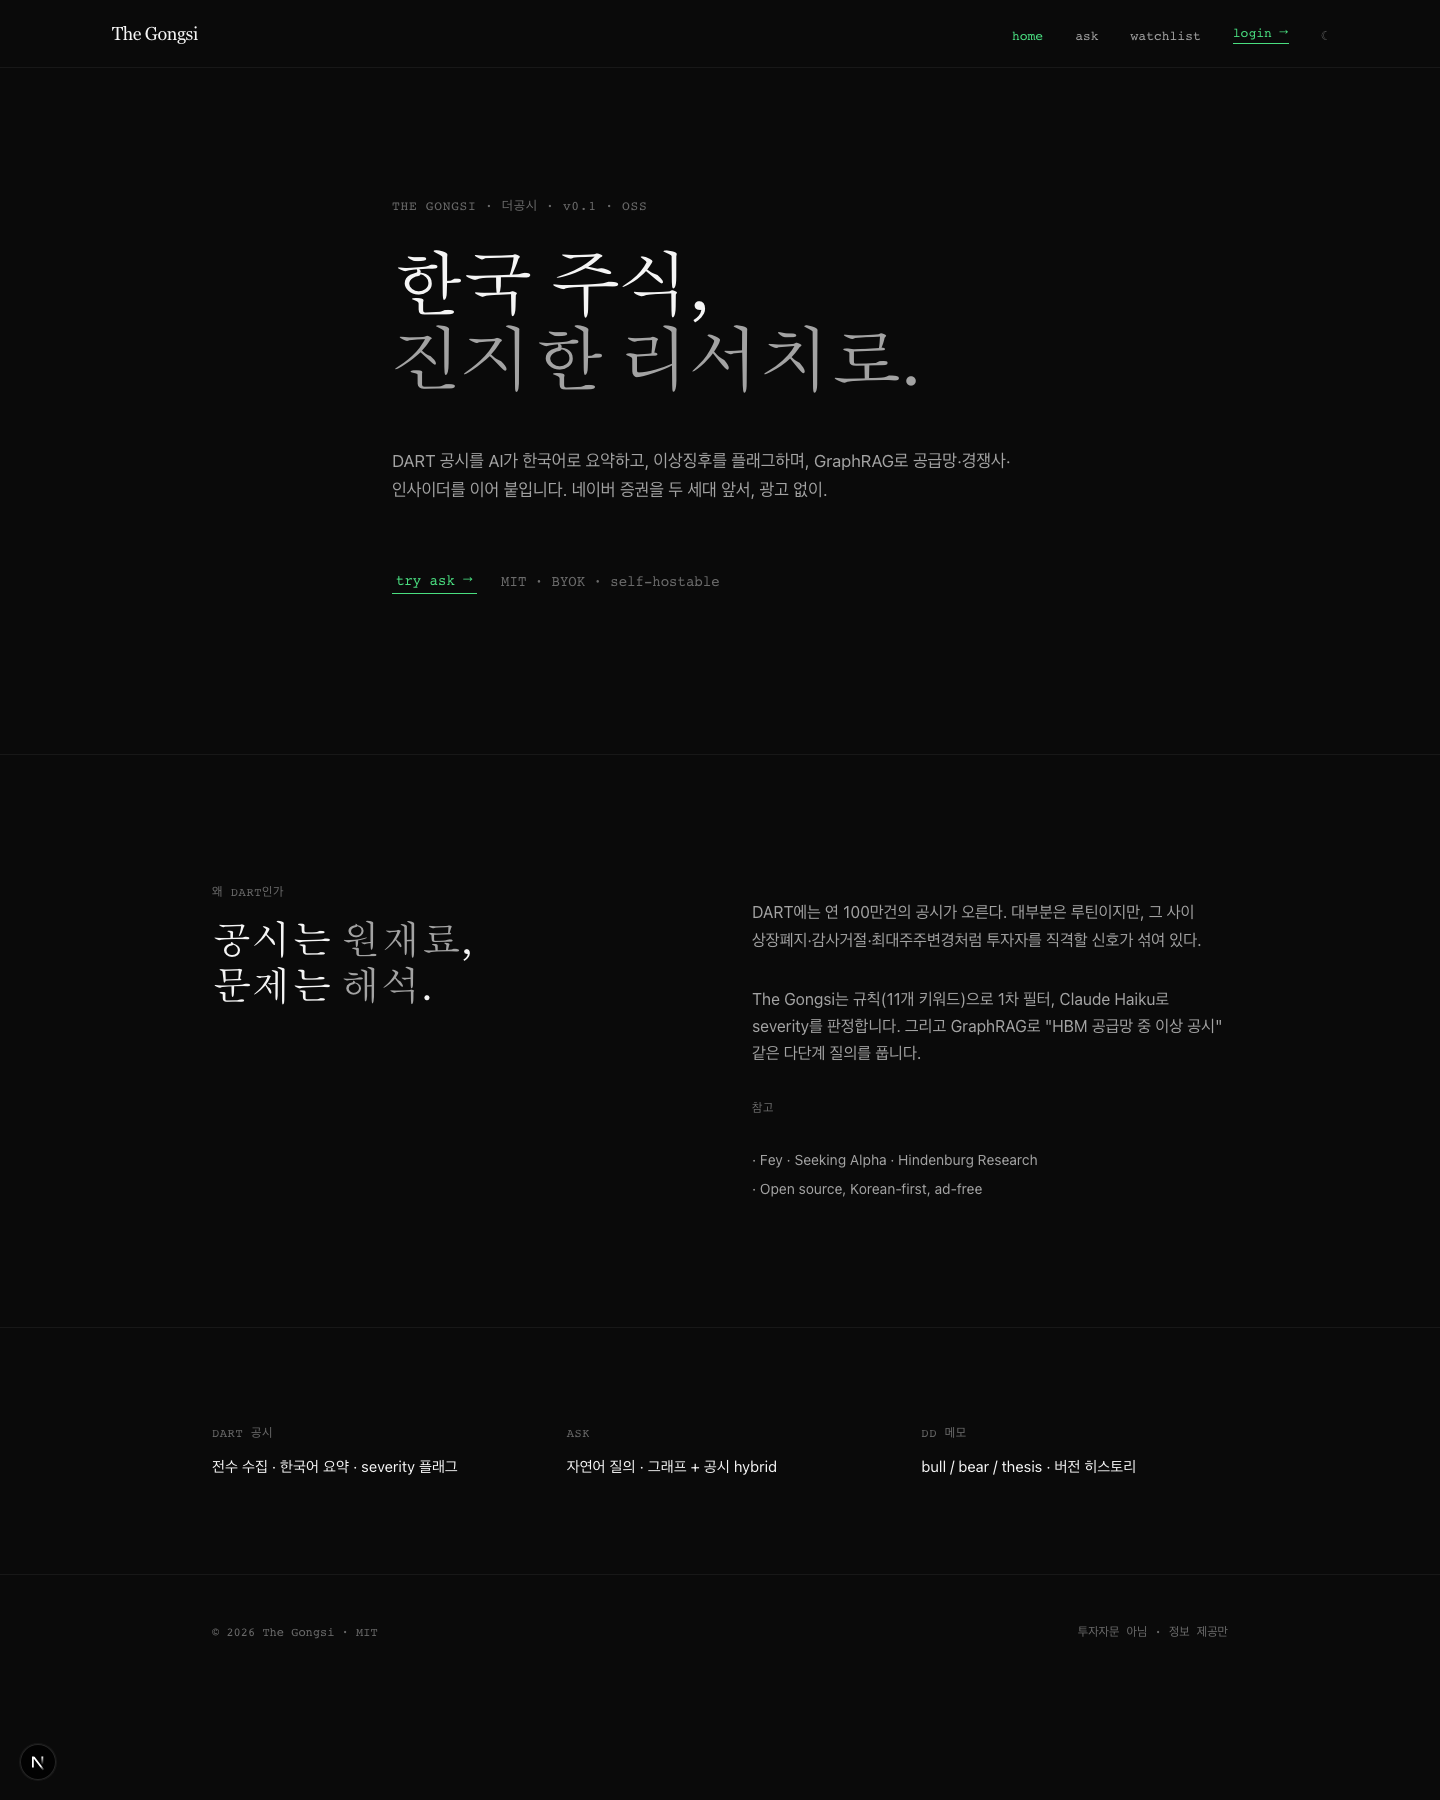
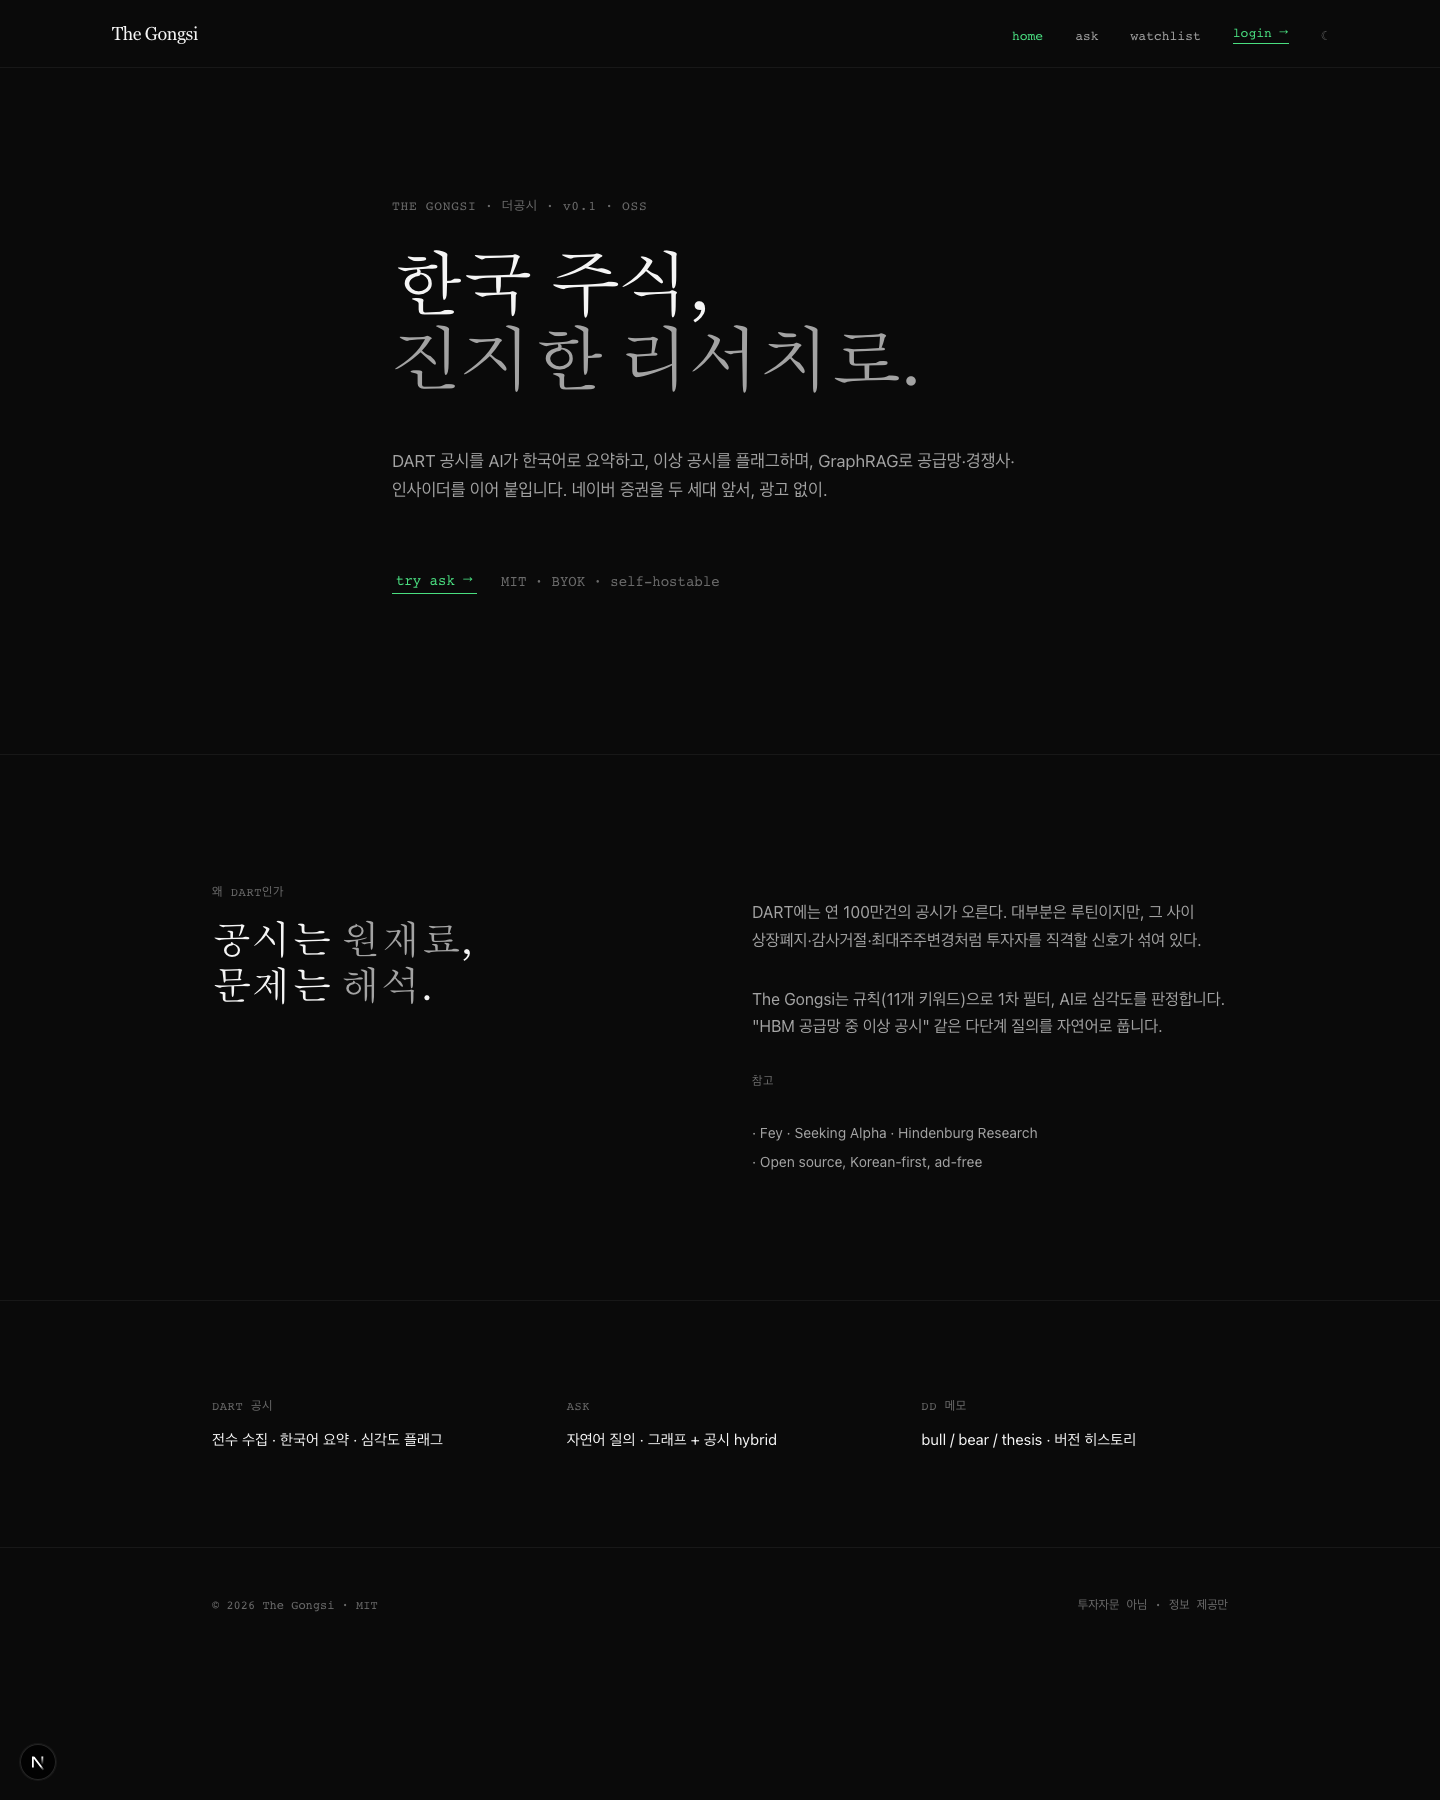
fix(i18n): terminology consistency sweep
수정된 불일치:
1. landing 'severity 플래그' + '이상징후' 혼재
   → '심각도 플래그' + '이상 공시' 통일 (ask placeholder와 맞춤)
2. landing 'Claude Haiku로 severity를 판정'
   → 'AI로 심각도를 판정' (모델명 세부는 불필요)
3. DisclosureList 필터 탭 영문 'all/high/med/low/uncertain'
   → '전체/고/중/저/불명' 한국어 (mono 스타일 유지)
   → title=영문값 hover 툴팁으로 유지
4. DisclosureList empty message '\'med\' 필터 해제'
   → '\'중\' 필터 해제' 한국어
5. NoMemoCard '메모가' → 'DD 메모가' (DDMemoCard 제목과 일치)

유지 (의도적):
- NavBar lowercase mono 영문 (home/ask/watchlist) — editorial 패턴
- BULL/BEAR/THESIS 3섹션 제목 영문 — 기술 용어 고정
- Page hero: 한국어 serif 제목 + mono 영문 카테고리 오버라인
- severity API 쿼리 파라미터 값 'high/med/low/uncertain' 영문 (기술 계층)

외부 노출 용어:
- watchlist (nav) / 관심 종목 (page title)
- ask (nav) / 자연어 질의 (page title)
- DD 메모 (일관)
- 심각도 (본문), 고/중/저/불명 (필터 라벨)
- 이상 공시 (placeholder + landing)
- 투자자문 아님 (푸터만, 본문 금지)

diff --git a/frontend/src/app/page.tsx b/frontend/src/app/page.tsx
@@ -11,7 +11,7 @@ export default function Home() {
         </h1>
 
         <p className="mt-12 text-[17px] leading-[1.7] text-fg-2">
-          DART 공시를 AI가 한국어로 요약하고, 이상징후를 플래그하며,
+          DART 공시를 AI가 한국어로 요약하고, 이상 공시를 플래그하며,
           GraphRAG로 공급망·경쟁사·인사이더를 이어 붙입니다.
           네이버 증권을 두 세대 앞서, 광고 없이.
         </p>
@@ -38,7 +38,7 @@ export default function Home() {
               DART에는 연 100만건의 공시가 오른다. 대부분은 루틴이지만, 그 사이 상장폐지·감사거절·최대주주변경처럼 투자자를 직격할 신호가 섞여 있다.
             </p>
             <p className="text-[16px] leading-[1.7] text-fg-2">
-              The Gongsi는 규칙(11개 키워드)으로 1차 필터, Claude Haiku로 severity를 판정합니다. 그리고 GraphRAG로 "HBM 공급망 중 이상 공시" 같은 다단계 질의를 풉니다.
+              The Gongsi는 규칙(11개 키워드)으로 1차 필터, AI로 심각도를 판정합니다. "HBM 공급망 중 이상 공시" 같은 다단계 질의를 자연어로 풉니다.
             </p>
             <p className="mono text-[12px] text-fg-3 uppercase tracking-wider">참고</p>
             <ul className="text-[14px] text-fg-2 space-y-2">
@@ -51,7 +51,7 @@ export default function Home() {
 
       <section className="border-t border-border/50">
         <div className="mx-auto max-w-[1080px] px-8 py-24 grid grid-cols-1 md:grid-cols-3 gap-12">
-          <Feature label="DART 공시" value="전수 수집 · 한국어 요약 · severity 플래그" />
+          <Feature label="DART 공시" value="전수 수집 · 한국어 요약 · 심각도 플래그" />
           <Feature label="Ask" value="자연어 질의 · 그래프 + 공시 hybrid" />
           <Feature label="DD 메모" value="bull / bear / thesis · 버전 히스토리" />
         </div>
